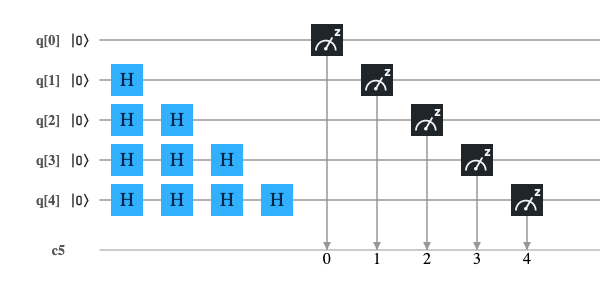
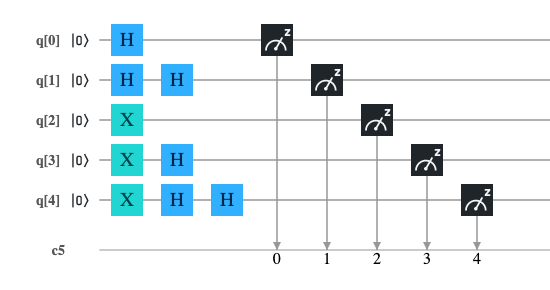
Changed CascadeHadamardGates script

diff --git a/CascadeHadamardGates/qiskit/CascadeHadamardGates.py b/CascadeHadamardGates/qiskit/CascadeHadamardGates.py
@@ -2,16 +2,14 @@ q = QuantumRegister(5, 'q')
 c = ClassicalRegister(5, 'c')
 circuit = QuantumCircuit(q, c)
 
+circuit.h(q[0])
 circuit.h(q[1])
-circuit.h(q[2])
+circuit.h(q[1])
+circuit.x(q[2])
+circuit.x(q[3])
 circuit.h(q[3])
-circuit.h(q[4])
-circuit.h(q[2])
-circuit.h(q[3])
-circuit.h(q[4])
-circuit.h(q[3])
+circuit.x(q[4])
 circuit.h(q[4])
 circuit.h(q[4])
 
 circuit.measure(q, c)
-
